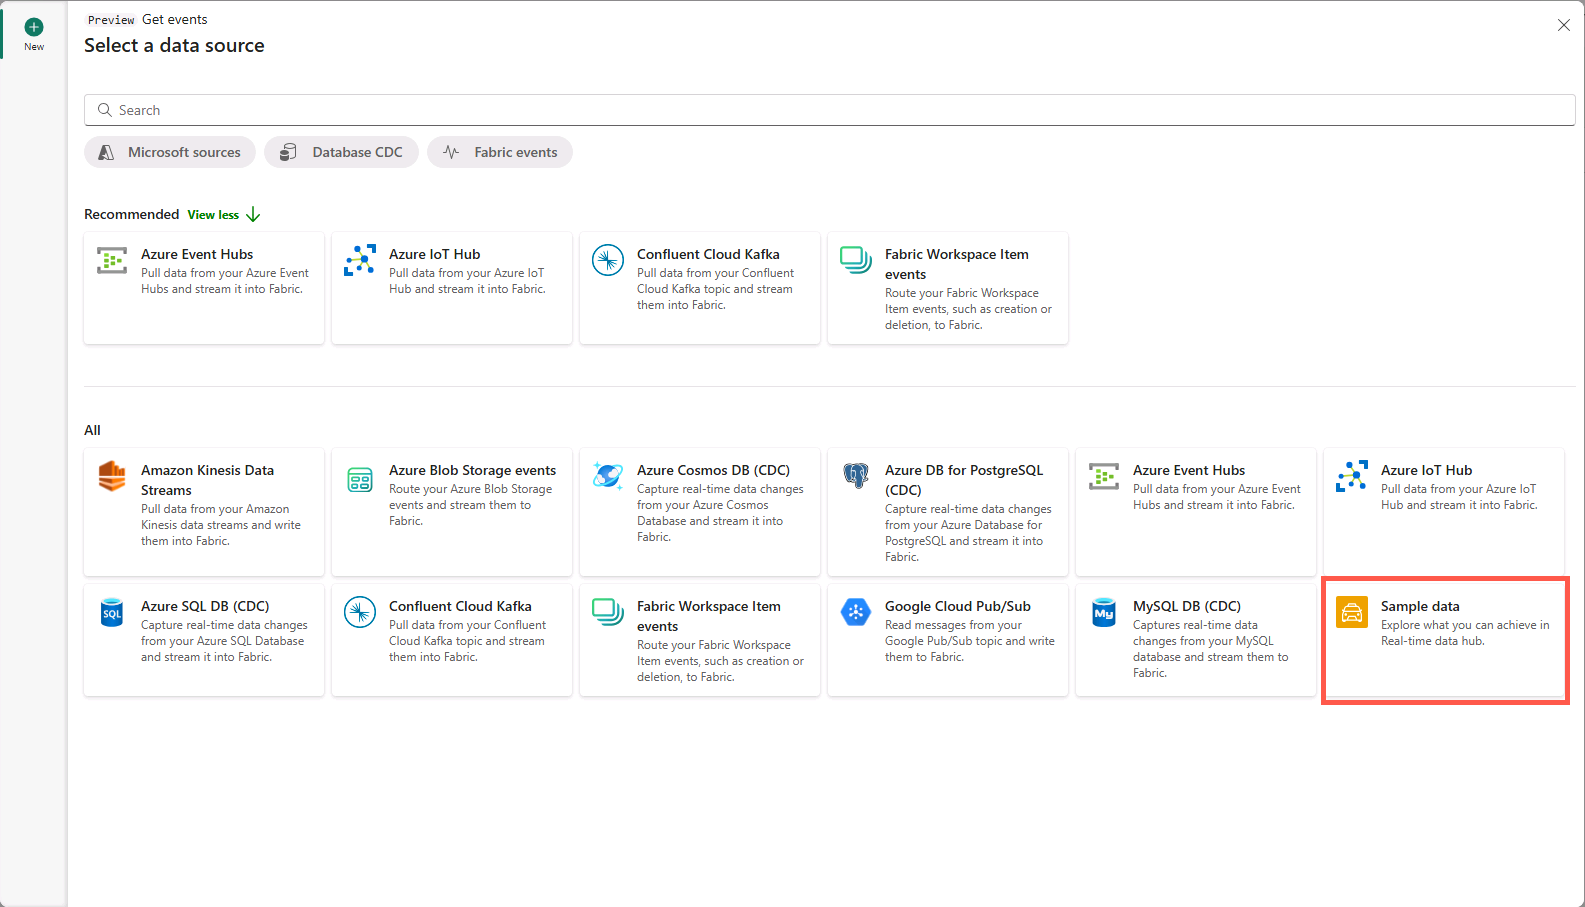
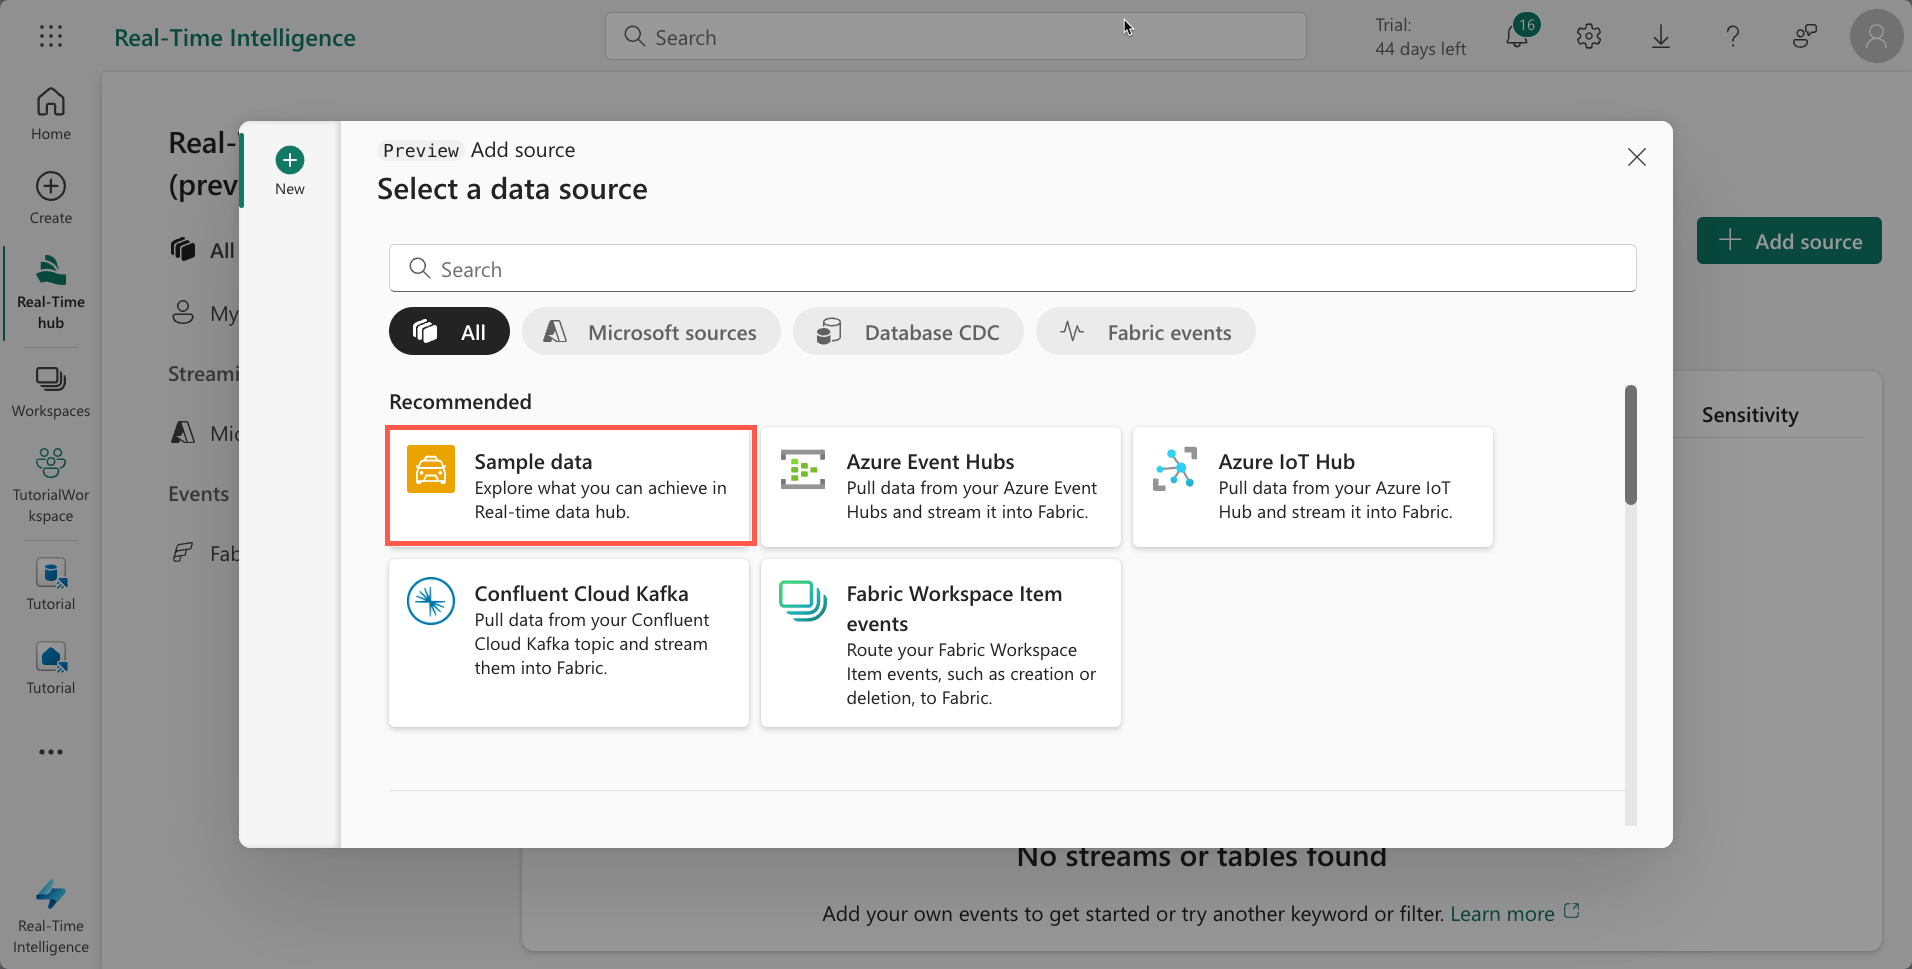
Update tutorial resources to match ui updates

diff --git a/lab/tutorial-2-get-real-time-events.md b/lab/tutorial-2-get-real-time-events.md
@@ -6,22 +6,22 @@ In this part of the tutorial, you browse the Real-Time hub, create an event stre
 
 1. From the navigation bar, select **Real-Time hub**. You may get a dialog Welcome to Real-Time hub. Click **Get started** to close the dialog.
 
-2. Select **+ Get events**.
-    
-    ![Screenshot of Real-time hub with get events highlighted.](media/get-events.png)
+2. Select **+ Add source**.
 
-3. The **Get events** pane opens. Select **Sample data**. 
+   ![Screenshot of Real-time hub with add source highlighted.](media/add-source.png)
 
-    ![Screenshot of Real-time hub with sample data highlighted.](media/sample-data.png)
+3. The **Select a data source** pane opens. Select **Sample data**.
+
+   ![Screenshot of Real-time hub with sample data highlighted.](media/sample-data.png)
 
 ### Sample data
 
-1. In **Source name**, enter +++*TutorialSource*+++.
-2. In **Sample data** select *Bicycles (Reflex compatible)*.
+1. In **Source name**, enter +++_TutorialSource_+++.
+2. In **Sample data** select _Bicycles (Reflex compatible)_.
 
 ### Stream details
 
-1. Edit the **Eventstream name** by selecting the pencil icon and entering +++*TutorialEventstream*+++.
+1. Edit the **Eventstream name** by selecting the pencil icon and entering +++_TutorialEventstream_+++.
 2. Select **Next**.
 
 ![Screenshot of connect window in Real-Time hub.](media/connect-source.png)
@@ -30,58 +30,58 @@ In this part of the tutorial, you browse the Real-Time hub, create an event stre
 
 1. Review the event stream details and select **Create source**.
 
-   A new event stream named *TutorialEventstream* is created.
+   A new event stream named _TutorialEventstream_ is created.
 
 ## Transform events
 
 1. Select **Open Eventstream** from the notification that appears after creating the event stream, or browse to the event stream from the Real-time hub and select **Open Eventstream**.
 2. From the menu ribbon, select **Edit**.
-3. In the event stream authoring canvas select the down arrow on the **Transform events or add destination** tile.  
+3. In the event stream authoring canvas select the down arrow on the **Transform events or add destination** tile.
 
-    ![Screenshot showing the transform events or add destination tile in Real-Time Intelligence.](media/transform-events.png)
+   ![Screenshot showing the transform events or add destination tile in Real-Time Intelligence.](media/transform-events.png)
 
-4. Select **Manage fields**. The tile is renamed to *Manage_fields1*.
-5. Select the pencil icon on the *Manage_fields* tile.
+4. Select **Manage fields**. The tile is renamed to _Manage_fields_.
+5. Select the pencil icon on the _Manage_fields_ tile.
 6. In the Manage fields pane, do the following actions:
 
-    i. In **Operation name**, enter +++*TutorialTransform*+++.
-    
-    ii. Select **Add all fields**.
-   
-    iii. Select **+ Add field**.
-    
-    iv. From the **Field** dropdown, expand **Built-in Date Time Function** then select **SYSTEM.Timestamp()**.
-   
-    v. Enter +++*Timestamp*+++ as the **Name**.
-   
-    vi. Select **Add**.
+   i. In **Operation name**, enter +++_TutorialTransform_+++.
 
-    ![Screenshot showing the system timestamp selected in the event stream manage fields tile in Real-Time Intelligence.](media/system-timestamp.png)
-    
+   ii. Select **Add all fields**.
+
+   iii. Select **+ Add field**.
+
+   iv. From the **Field** dropdown, expand **Built-in Date Time Function** then select **SYSTEM.Timestamp()**.
+
+   v. Enter +++_Timestamp_+++ as the **Name**.
+
+   vi. Select **Add**.
+
+   ![Screenshot showing the system timestamp selected in the event stream manage fields tile in Real-Time Intelligence.](media/system-timestamp.png)
+
 7. Select **Save**.
-> [!NOTE]
-> The *TutorialTransform* tile is now displayed but with an error, because the destination has not been set.
+   > [!NOTE]
+   > The _TutorialTransform_ tile is now displayed but with an error, because the destination has not been set.
 
 ## Create a destination
 
-1. Hover over the right edge of the *TutorialTransform* tile and select the green plus icon.
+1. Hover over the right edge of the _TutorialTransform_ tile and select the green plus icon.
 2. Select **Destinations** > **Eventhouse**.
 
-    A new tile is created entitled *Eventhouse1*.
+   A new tile is created entitled _Eventhouse_.
 
-3. Select the pencil icon on the *Eventhouse1* tile.
+3. Select the pencil icon on the _Eventhouse_ tile.
 4. Enter the following information in the **Eventhouse** pane:
 
-    ![Screenshot showing the KQL database destination pane in Real-Time Intelligence.](media/kql-database-details.png)
+   ![Screenshot showing the KQL database destination pane in Real-Time Intelligence.](media/kql-database-details.png)
 
-    | Field | Value |
-    | --- | --- |
-    | **Destination name** | +++*TutorialDestination*+++ |
-    | **Workspace** | Select the workspace in which you've created your resources. |
-    | **Eventhouse** | *Tutorial* |
-    | **KQL Database** | *Tutorial* |
-    | **Destination table** | *Create new* - enter +++*TutorialTable*+++ as table name |
-    | **Input data format** | *JSON* |  
+   | Field                 | Value                                                        |
+   | --------------------- | ------------------------------------------------------------ |
+   | **Destination name**  | +++_TutorialDestination_+++                                  |
+   | **Workspace**         | Select the workspace in which you've created your resources. |
+   | **Eventhouse**        | _Tutorial_                                                   |
+   | **KQL Database**      | _Tutorial_                                                   |
+   | **Destination table** | _Create new_ - enter +++_TutorialTable_+++ as table name     |
+   | **Input data format** | _JSON_                                                       |
 
 5. Select **Save**.
 6. From the menu ribbon select **Publish**.

diff --git a/lab/tutorial-1-resources.md b/lab/tutorial-1-resources.md
@@ -24,11 +24,13 @@ In this part of the tutorial, you set up the environment. Specifically, you crea
 
 
 3. On the bottom left experience switcher, select **Real-Time Intelligence**.
-4. In the upper left corner, select **+ New Item> Eventhouse**. The Eventhouse item will be located under the Store data section.
+
+4. In upper right corner under recommended items to create select **Eventhouse**.
 
     ![Screenshot showing how to create a new eventhouse in Real-Time Intelligence.](media/create-eventhouse.png)
 
-5. Enter +++*Tutorial*+++ as the eventhouse name. A KQL database is created simultaneously with the same name.
+5. Enter +++*Tutorial*+++ as the eventhouse name. A KQL database will be created simultaneously with the same name.
+
 6. Select **Create**. When provisioning is complete, Select **Get started** and the eventhouse **System overview** page is shown.
 
 ## Turn on OneLake availability
@@ -37,8 +39,7 @@ In this part of the tutorial, you set up the environment. Specifically, you crea
 
     ![Screnshot of the System overview for new eventhouse with Tutorial database selected and highlighted with a red box.](media/select-tutorial-database.png)
 
-2. In the **Database details** section, select the **pencil icon** next to **OneLake availability**.
-3. Toggle the button to **Active** and select **Done**.
+2. In the **Database details** section, toggle OneLake Availability to **On**. In the confirmation dialog ensure **Apply to existing tables is checked**  and select **Turn on**.
 
     ![Screenshot showing how to turn on OneLake availability.](media/one-lake-availability.png)
 
